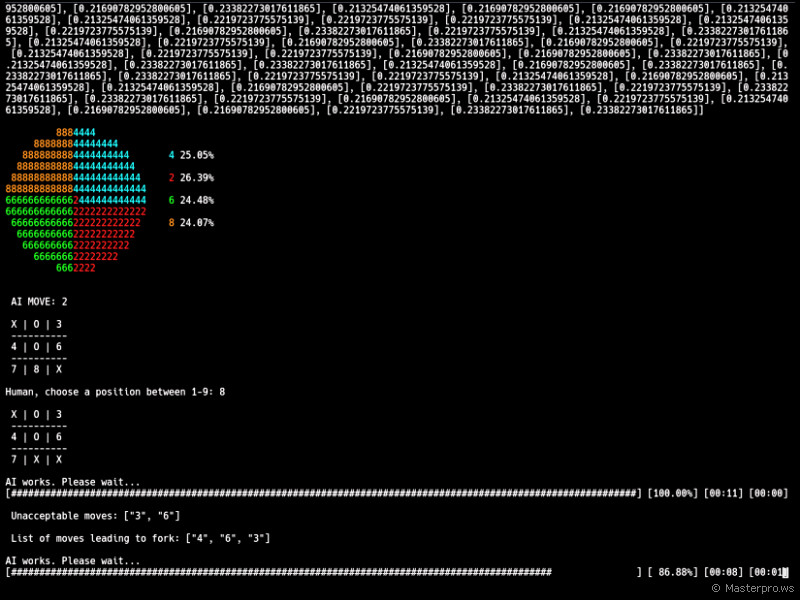
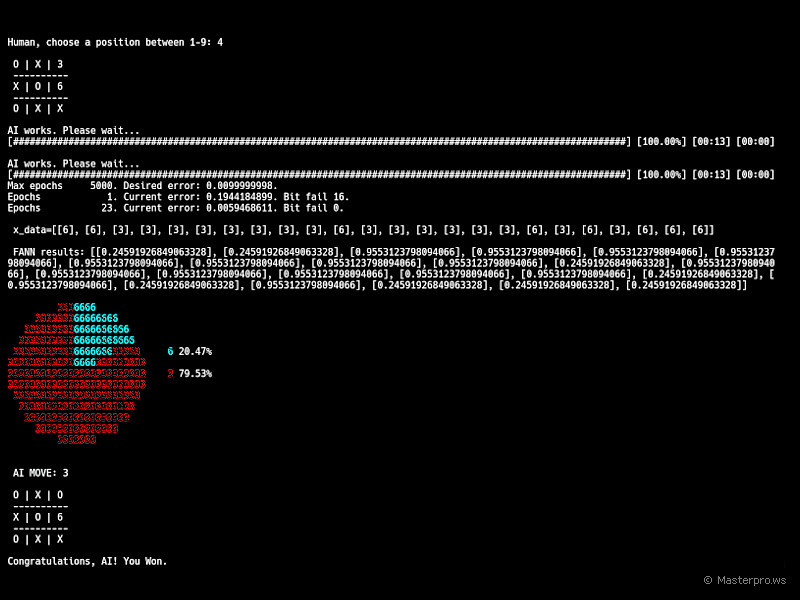
class AI has been added

Changed region(s): [[0.0, 0.0, 1.0, 0.96], [0.8125, 0.93, 1.0, 0.99], [0.2812, 0.87, 0.3438, 0.9]]

diff --git a/bin/game.rb b/bin/game.rb
@@ -6,6 +6,7 @@ require 'progress_bar'
 require 'tty-pie'
 require_relative '../lib/game_board.rb'
 require_relative '../lib/progress_bar.rb'
+require_relative '../lib/artificial_intelligence.rb'
 
 class Interface
   def initialize
@@ -38,7 +39,7 @@ class Interface
       print "#{@player1}, choose a position between 1-9: "
       spot = gets.strip
     else
-      spot = neural_network
+      spot = AI.neural_network(@game.counter, @game.place?(4), @game.board, @game.fork_danger?)
     end
     spot = @game.board_index(spot)
     if @game.move_allowed?(spot)
@@ -61,163 +62,6 @@ class Interface
       end
     elsif @game.draw?
       puts 'Game over! Draw.'
-    end
-  end
-
-  def first_move
-    progress
-    if !@game.place?(4)
-      puts "\nAI MOVE: 5"
-      5
-    else
-      puts "\nAI MOVE: 1"
-      1
-    end
-  end
-
-  def progress
-    0.step(80, 5) do |i|
-      printf("\rAI works. Please wait... [%-16s]", '#' * (i / 5))
-      sleep(0.1)
-    end
-    puts
-  end
-
-  def nn_arrays
-    unacceptable_moves_array = []
-    array_of_moves_to_fork = []
-    angle_attack_moves_array = []
-    current_position = @game.board.to_s
-    print_info_3
-    # Create a list of unacceptable moves, a list of moves leading to fork, a list of attacking moves:
-    CSV::WithProgressBar.foreach('ss.csv', headers: false) do |row|
-      row.each do |e|
-        next unless e == current_position
-
-        if row[6].to_i - row[3].to_i == 2 && row[4] == 'O' && row[2].to_f != 0.2
-          unacceptable_moves_array << row[0]
-        # Find moves that inevitably lead to a fork:
-        elsif fork_danger? && row[3].to_i == 3 && row[0].to_i.odd?
-          unacceptable_moves_array << row[0]
-        end
-        next if row[5].nil?
-
-        # Find moves that may lead to a fork:
-        array_of_moves_to_fork << row[0] if row[3].to_i == row[5].to_i
-        # Find attacking moves:
-        if row[3].to_i == row[5].to_i && row[6].to_i < 7 && row[0].to_i.odd?
-          angle_attack_moves_array << row[0]
-        end
-      end
-    end
-    [unacceptable_moves_array, array_of_moves_to_fork, angle_attack_moves_array]
-  end
-
-  def fork_danger?
-    @game.fork_danger?
-  end
-
-  def print_info(a, b, c)
-    print "\n"
-    [[a, "\n Unacceptable moves: "],
-     [b, "\n List of moves leading to fork: "],
-     [c, "\n Angle attack moves: "]].each do |i|
-      print i[1] + i[0].uniq.to_s + "\n" if i[0].any?
-    end
-    print "\n"
-  end
-
-  def print_info_1(a, b, c)
-    print "\n x_data=" + a.to_s + "\n"
-    print "\n FANN results: " + b.to_s + "\n"
-    puts ''
-    chart(a, b)
-    puts ''
-    puts "\n AI MOVE: " + c.to_s
-  end
-
-  def print_info_2
-    puts "\n AI sees no way to continue the game. :( Try deleting ss.csv and run the program again."
-  end
-
-  def print_info_3
-    puts 'AI works. Please wait...'
-  end
-
-  def chart(a, b)
-    tmp = []
-    colors = %i[cyan red green yellow white magenta]
-    data = [
-      a.zip(b).uniq.each_with_index do |i, index|
-        tmp << { name: i[0].join.to_i, value: i[1].join.to_f, color: colors[index], fill: i[0].join.to_s }
-      end
-    ]
-    pie_chart = TTY::Pie.new(data: tmp, radius: 6, legend: { format: '%<label>s %<percent>.2f%%' })
-    print pie_chart
-  end
-
-  def nn_data
-    current_position = @game.board.to_s
-    x_data = []
-    y_data = []
-    arrays = nn_arrays
-    print_info(arrays[0], arrays[1], arrays[2])
-    print_info_3
-    CSV::WithProgressBar.foreach('ss.csv', headers: false) do |row|
-      row.each do |e|
-        next unless e == current_position
-
-        unless arrays[0].include? (row[0])
-          if row[6].to_i - row[3].to_i == 1
-            x_data.push([row[0].to_i])
-            y_data.push([1])
-          elsif row[6].to_i - row[3].to_i == 3
-            if arrays[2].include? (row[0])
-              x_data.push([row[0].to_i])
-              y_data.push([0.7])
-            elsif arrays[1].include? (row[0])
-              x_data.push([row[0].to_i])
-              y_data.push([0.3])
-            end
-          else
-            x_data.push([row[0].to_i])
-            y_data.push([row[2].to_f])
-          end
-        end
-      end
-    end
-    [x_data, y_data]
-  end
-
-  def run
-    data = nn_data
-    fann_results_array = []
-    begin
-      train = RubyFann::TrainData.new(inputs: data[0], desired_outputs: data[1])
-      model = RubyFann::Standard.new(
-        num_inputs: 1,
-        hidden_neurons: [4],
-        num_outputs: 1
-      )
-      model.train_on_data(train, 5000, 500, 0.01)
-      data[0].flatten.each do |i|
-        fann_results_array << model.run([i])
-      end
-    rescue StandardError
-      []
-      print_info_2
-      exit
-    end
-    result = data[0][fann_results_array.index(fann_results_array.max)]
-    print_info_1(data[0], fann_results_array, result[0])
-    result[0]
-  end
-
-  def neural_network
-    if @game.counter == 1
-      first_move
-    else
-      run
     end
   end
 end

diff --git a/lib/artificial_intelligence.rb b/lib/artificial_intelligence.rb
@@ -1,0 +1,156 @@
+# frozen_string_literal: true
+
+class AI
+  def self.neural_network(counter, place_4, board, fork_danger)
+    if counter == 1
+      first_move(place_4)
+    else
+      run(board, fork_danger)
+    end
+  end
+
+  def self.first_move(place_4)
+    progress
+    if !place_4
+      puts "\nAI MOVE: 5"
+      5
+    else
+      puts "\nAI MOVE: 1"
+      1
+    end
+  end
+
+  def self.run(board, fork_danger)
+    data = nn_data(board, fork_danger)
+    fann_results_array = []
+    begin
+      train = RubyFann::TrainData.new(inputs: data[0], desired_outputs: data[1])
+      model = RubyFann::Standard.new(
+        num_inputs: 1,
+        hidden_neurons: [4],
+        num_outputs: 1
+      )
+      model.train_on_data(train, 5000, 500, 0.01)
+      data[0].flatten.each do |i|
+        fann_results_array << model.run([i])
+      end
+    rescue StandardError
+      []
+      print_info_2
+      exit
+    end
+    result = data[0][fann_results_array.index(fann_results_array.max)]
+    print_info_1(data[0], fann_results_array, result[0])
+    result[0]
+  end
+
+  def self.nn_data(board, fork_danger)
+    current_position = board.to_s
+    x_data = []
+    y_data = []
+    arrays = nn_arrays(board, fork_danger)
+    print_info(arrays[0], arrays[1], arrays[2])
+    print_info_3
+    CSV::WithProgressBar.foreach('ss.csv', headers: false) do |row|
+      row.each do |e|
+        next unless e == current_position
+
+        unless arrays[0].include? (row[0])
+          if row[6].to_i - row[3].to_i == 1
+            x_data.push([row[0].to_i])
+            y_data.push([1])
+          elsif row[6].to_i - row[3].to_i == 3
+            if arrays[2].include? (row[0])
+              x_data.push([row[0].to_i])
+              y_data.push([0.7])
+            elsif arrays[1].include? (row[0])
+              x_data.push([row[0].to_i])
+              y_data.push([0.3])
+            end
+          else
+            x_data.push([row[0].to_i])
+            y_data.push([row[2].to_f])
+          end
+        end
+      end
+    end
+    [x_data, y_data]
+  end
+
+  def self.nn_arrays(board, fork_danger)
+    unacceptable_moves_array = []
+    array_of_moves_to_fork = []
+    angle_attack_moves_array = []
+    current_position = board.to_s
+    print_info_3
+    # Create a list of unacceptable moves, a list of moves leading to fork, a list of attacking moves:
+    CSV::WithProgressBar.foreach('ss.csv', headers: false) do |row|
+      row.each do |e|
+        next unless e == current_position
+
+        if row[6].to_i - row[3].to_i == 2 && row[4] == 'O' && row[2].to_f != 0.2
+          unacceptable_moves_array << row[0]
+        # Find moves that inevitably lead to a fork:
+        elsif fork_danger && row[3].to_i == 3 && row[0].to_i.odd?
+          unacceptable_moves_array << row[0]
+        end
+        next if row[5].nil?
+
+        # Find moves that may lead to a fork:
+        array_of_moves_to_fork << row[0] if row[3].to_i == row[5].to_i
+        # Find attacking moves:
+        if row[3].to_i == row[5].to_i && row[6].to_i < 7 && row[0].to_i.odd?
+          angle_attack_moves_array << row[0]
+        end
+      end
+    end
+    [unacceptable_moves_array, array_of_moves_to_fork, angle_attack_moves_array]
+  end
+
+  def self.print_info(a, b, c)
+    print "\n"
+    [[a, "\n Unacceptable moves: "],
+     [b, "\n List of moves leading to fork: "],
+     [c, "\n Angle attack moves: "]].each do |i|
+      print i[1] + i[0].uniq.to_s + "\n" if i[0].any?
+    end
+    print "\n"
+  end
+
+  def self.print_info_1(a, b, c)
+    print "\n x_data=" + a.to_s + "\n"
+    print "\n FANN results: " + b.to_s + "\n"
+    puts ''
+    chart(a, b)
+    puts ''
+    puts "\n AI MOVE: " + c.to_s
+  end
+
+  def self.print_info_2
+    puts "\n AI sees no way to continue the game. :( Try deleting ss.csv and run the program again."
+  end
+
+  def self.print_info_3
+    puts 'AI works. Please wait...'
+  end
+
+  def self.progress
+    0.step(80, 5) do |i|
+      printf("\rAI works. Please wait... [%-16s]", '#' * (i / 5))
+      sleep(0.1)
+    end
+    puts
+  end
+
+  def self.chart(a, b)
+    tmp = []
+    colors = %i[cyan red green yellow white magenta]
+    data = [
+      a.zip(b).uniq.each_with_index do |i, index|
+        tmp << { name: i[0].join.to_i, value: i[1].join.to_f, color: colors[index], fill: i[0].join.to_s }
+      end
+    ]
+    pie_chart = TTY::Pie.new(data: tmp, radius: 6, legend: { format: '%<label>s %<percent>.2f%%' })
+    print pie_chart
+  end
+end

diff --git a/lib/interface.rb b/lib/interface.rb
@@ -19,9 +19,14 @@ class Interface
   end
 
   def start
-    puts 'The Artificial Intelligence training process works...'
-    puts 'Please wait...'
+    progress
     auxiliary
+  end
+
+  def progress
+    0.step(40, 8) do |i|
+      printf('The Artificial Intelligence training process works: [%-5s]', '*' * (i / 8))
+    end
   end
 
   def auxiliary
@@ -71,4 +76,4 @@ class Interface
       'draw'
     end
   end
-  end
+end

diff --git a/bin/training.rb b/bin/training.rb
@@ -55,3 +55,4 @@ resulting_array.flatten(1).zip(total_number_moves).each do |i|
 end
 # Create a csv file:
 File.write('ss.csv', tmp.map(&:to_csv).join)
+puts 'OK'
